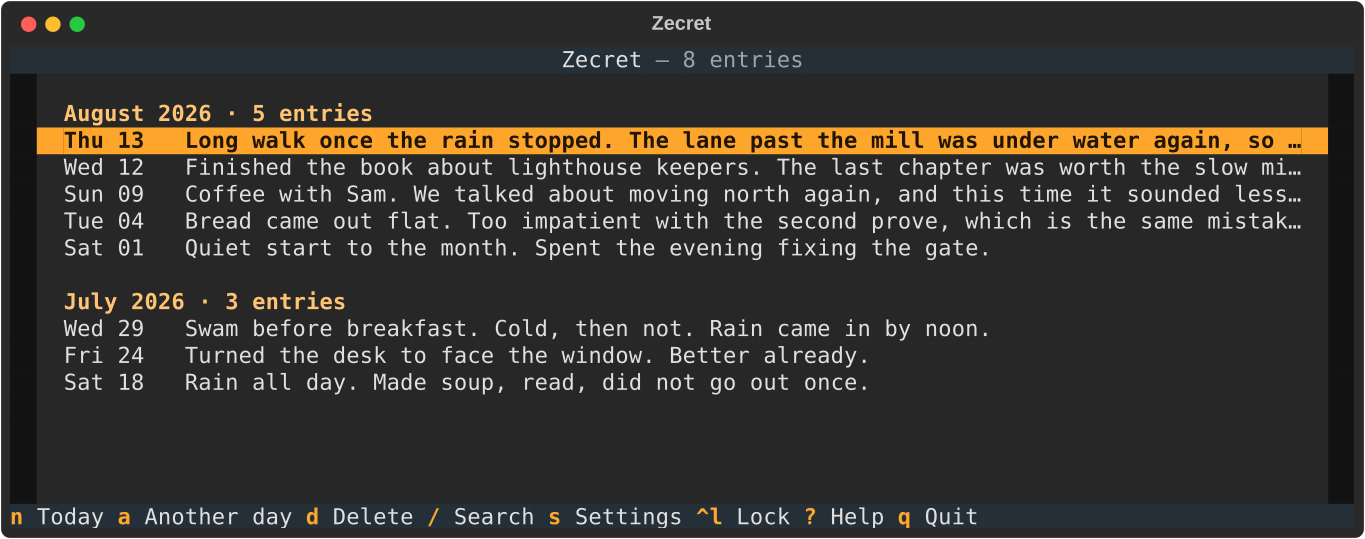
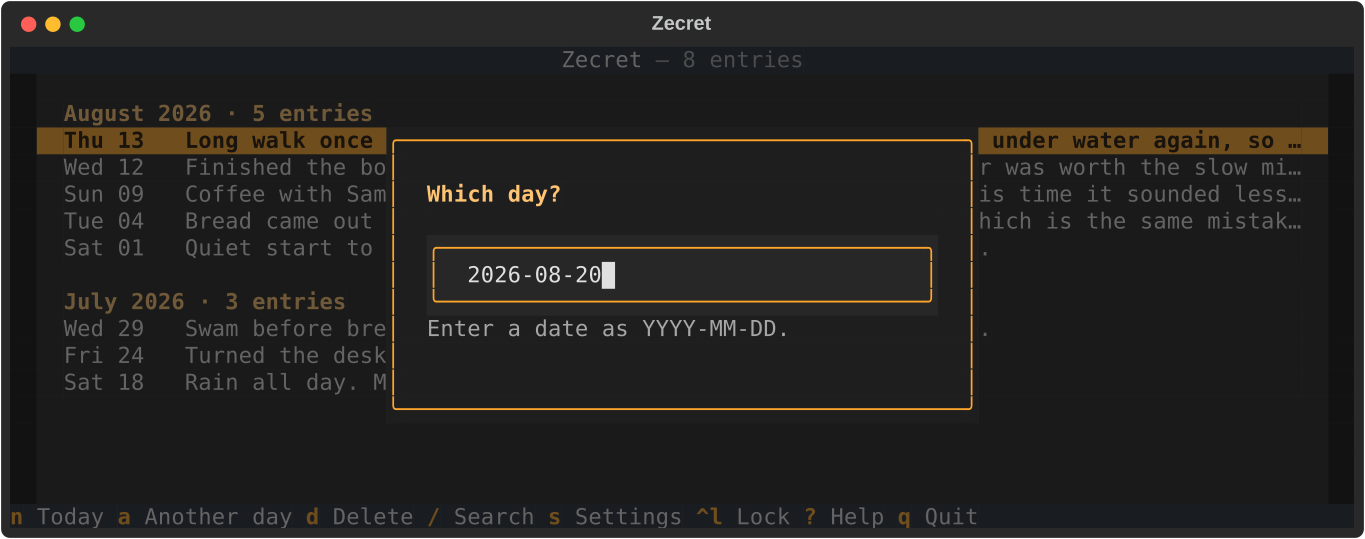
fix: shoot the which-day modal in the date screenshot, not the entry list again

diff --git a/tools/screenshots.py b/tools/screenshots.py
@@ -139,8 +139,15 @@ async def editor(pilot: Pilot[None]) -> None:
 
 
 async def date(pilot: Pilot[None]) -> None:
-    """The which-day modal."""
-    await pilot.press("g")
+    """The which-day modal.
+
+    'a', not 'g': 'g' jumps to the newest entry, so this shot was the
+    entry list again -- the same picture as entries-*.png, filed under a
+    name saying it was the modal. Nothing can fail on that, which is what
+    the note at the end of this script is about.
+    """
+    await pilot.press("a")
+    await pilot.pause()
     await pilot.pause()
 
 
